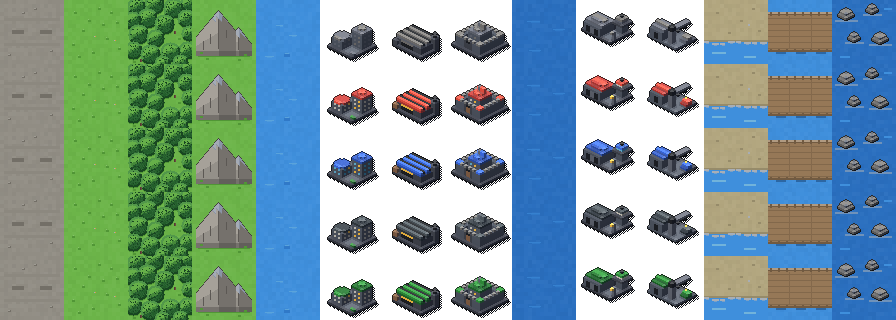
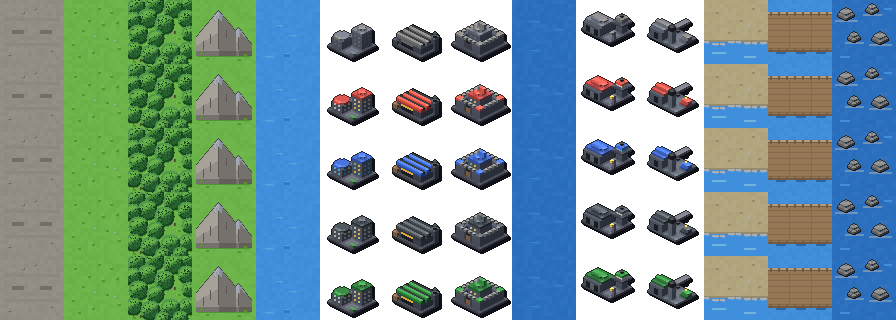
Adopt the generator's solid building drop shadow
Regenerated terrain_atlas.png (sprite_generator #23); retires the checkerboard clause in the design record.

diff --git a/CLAUDE.md b/CLAUDE.md
@@ -143,7 +143,8 @@ plan is stated in full below and has no copy there.
   row and reads this game's own `CommanderVisuals` themes; the original "rows 0–2 stay
   byte-for-byte" clause retired with the PixVoxel art it froze.
   **A property column of that atlas is a transparent overlay** (generator `e26154e`, adopted
-  2026-08-18): the building, its plinth and an opaque dithered shadow, alpha everywhere else, so a
+  2026-08-18): the building, its plinth and an opaque shadow (solid since the clause below), alpha
+  everywhere else, so a
   city on road or beach no longer wears a baked green square. Two rules follow and neither is a
   per-cell judgement. **`TerrainDB.GROUND_ID` / `ground()` is the single answer to what is
   underneath** — the *default* ground everywhere, never a per-context one, because a map has one
@@ -236,15 +237,30 @@ plan is stated in full below and has no copy there.
   The sub's wake followed, being drawn on the shadow's own parity; it is solid and drawn *over* the
   shadow now. The generator owns all of it (`_shadow_ellipse`, `tests/…::CastShadow`) — there is no
   shadow tone and no parity anywhere in `scenes/`, which is what keeps the figure sheet's
-  subtraction exact. **The buildings' drop shadow is still a 1px checkerboard** — a different
-  drawer in the generator's `terrain.py`, out of that pass's scope, and it is why a city still
-  wears a stippled fringe at 1:1. 54 of the 85 smoke frames moved and the set is exactly the
+  subtraction exact. 54 of the 85 smoke frames moved and the set is exactly the
   predicted one: every board frame, plus the three cut-ins that stage the sub against the cruiser —
   a hull places its waterline foam against the composed cell's own spans, so a solid displacement
   shadow moved a few flecks of it, and those flecks are the only pixels the figure sheet carries
   over from this change. Every menu frame, every capture cut-in and every combat cut-in of a land
   or air unit is byte-identical, which is the figure sheet's subtraction proving itself.
   The legibility ruler was re-run this time and `docs/sprite_legibility.md` carries the re-read.
+  **The buildings' drop shadow is solid on the same reading** (generator `cdc2a57`, adopted
+  2026-08-19; this clause retires the one that recorded it as the remaining checkerboard) —
+  `terrain._drop_shadow` is a different drawer and that pass left it behind, which is why a city
+  wore a stippled fringe at 1:1. Over the five property cells the dither drew 0%–276% of its own
+  density at rung 1 and 0%–200% at rung 2, a whole sampling phase drawing none of it, against
+  solid's 0.97–1.06 at rung 2 and exactly 1.0 at rung 4; solid still spreads 0.69–1.38 at rung 1,
+  and that residual is the band's own **shape** — a ~130px silhouette two pixels wide — rather than
+  structure. **The tone is deliberately still the units'**, one shade on one board: the doubled
+  coverage was rendered on plains, road and shoal at all three rungs against the dither and three
+  lighter tones, and every lighter tone loses the shadow entirely on road and shoal zoomed out.
+  57 smoke frames moved — every board frame but `commander_info`, whose sheet covers the board,
+  plus the six menu frames that show a map thumbnail, a thumbnail baking the property art. **Both cut-ins are byte-identical, and that is structural**:
+  neither blits a property cell — a standing terrain is *drawn* with its colour sampled from a
+  window — and the only changed pixels inside `CutsceneScenery.OBJECT_WINDOW` or
+  `CaptureStage.ROOF_WINDOW` are the airport's and the port's, which no shipped scenario stages.
+  The legibility ruler was re-run and reads the board unchanged cell for cell, so
+  `docs/sprite_legibility.md` is untouched.
 - `capture-animation-plan.html` — the capture cut-in CP1–CP3, the combat cut-in's structural
   sibling: same D1 (replays a snapshot), same gate (`capturing`, Instant, viewer visibility via
   `BattlePerspective`). `core/` gained only the `CaptureCommand.result` snapshot; the mash chips

diff --git a/assets/LICENSES.md b/assets/LICENSES.md
@@ -31,7 +31,7 @@ read from this game's own `CommanderVisuals.FactionTheme` values, so the
 sprites and the UI chrome can never disagree about a faction's colour.
 
 The atlas's **five property columns are transparent overlays** — the building,
-its plinth and an opaque dithered shadow, alpha everywhere else — so a city is
+its plinth and an opaque solid shadow, alpha everywhere else — so a city is
 an object rather than a green square baked onto whatever it stands on. Which
 ground goes under one is `TerrainDB.GROUND_ID`'s single answer.
 
